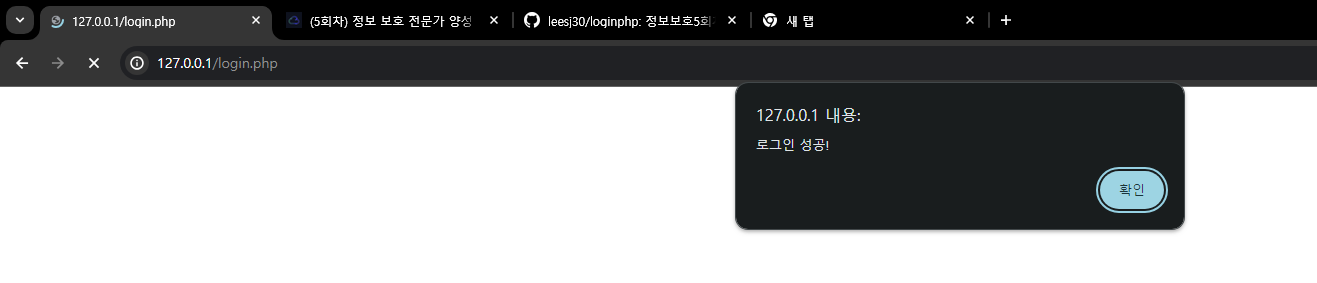
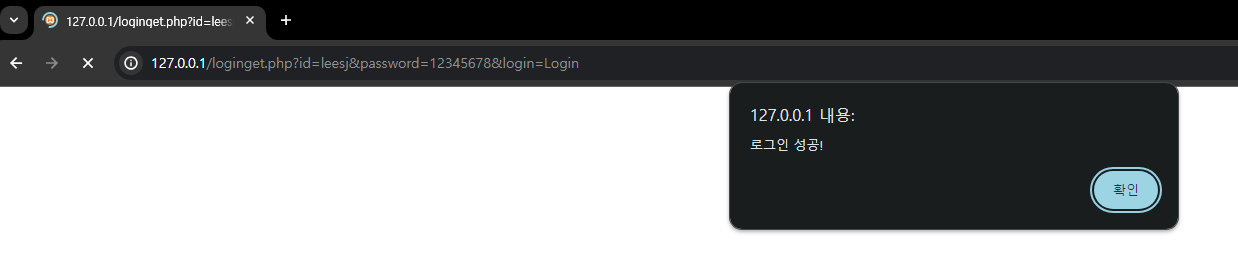
Add files via upload

diff --git a/loginget.php b/loginget.php
@@ -1,0 +1,37 @@
+<?php
+$message = '';
+
+$db = new PDO('mysql:host=localhost;dbname=user_data', 'root', '');
+
+session_start();
+
+if ($_SERVER["REQUEST_METHOD"] == "GET" && isset($_GET['login'])) {
+    $id = $_GET['id'];
+    $password = $_GET['password'];
+
+    $stmt = $db->prepare("SELECT * FROM user WHERE id = ?");
+    $stmt->execute(array($id));
+    $user = $stmt->fetch(PDO::FETCH_ASSOC);
+
+    if ($user && password_verify($password, $user['password'])) {
+        $_SESSION['user_id'] = $user['id'];
+        $message = "로그인 성공!";
+    } else {
+        $message = "ID 또는 비밀번호가 잘못되었습니다.";
+    }
+}
+?>
+
+<!-- 로그인 양식 -->
+<form method="get">
+    ID: <input type="text" name="id" required>
+    Password: <input type="password" name="password" required> <!-- 여기를 수정했습니다 -->
+    <input type="submit" name="login" value="Login">
+    <button type="button" onclick="window.location.href='register.php';">회원가입</button>
+</form>
+
+<?php if ($message != ''): ?>
+<script type="text/javascript">
+alert('<?php echo $message; ?>');
+</script>
+<?php endif; ?>

diff --git a/registerget.php b/registerget.php
@@ -1,0 +1,31 @@
+<?php
+// 데이터베이스 연결 설정
+$db = new PDO('mysql:host=localhost;dbname=user_data', 'root', '');
+
+if ($_SERVER["REQUEST_METHOD"] == "GET" && isset($_GET['register'])) {
+    $id = $_GET['id'];
+    $password = password_hash($_GET['password'], PASSWORD_DEFAULT);
+
+    $checkStmt = $db->prepare("SELECT * FROM user WHERE id = ?");
+    $checkStmt->execute(array($id));
+    $user = $checkStmt->fetch(PDO::FETCH_ASSOC);
+
+    if ($user) {
+        echo "<script>alert('이미 존재하는 ID입니다.');</script>";
+    } else {
+        $stmt = $db->prepare("INSERT INTO user (id, password) VALUES (?, ?)");
+        if ($stmt->execute(array($id, $password))) {
+            echo "<script>alert('회원가입이 완료되었습니다.'); window.location = 'login.php';</script>";
+            exit();
+        }
+    }
+}
+?>
+
+<!-- 회원가입 양식 -->
+<form method="get">
+    ID: <input type="text" name="id" required>
+    Password: <input type="password" name="password" required> 
+    <input type="submit" name="register" value="Register">
+</form>
+
